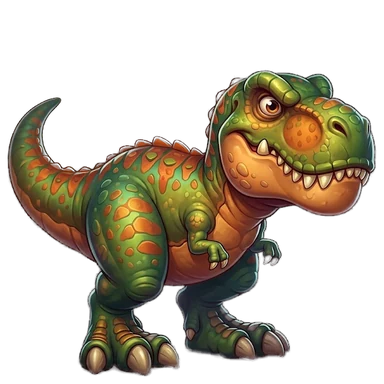
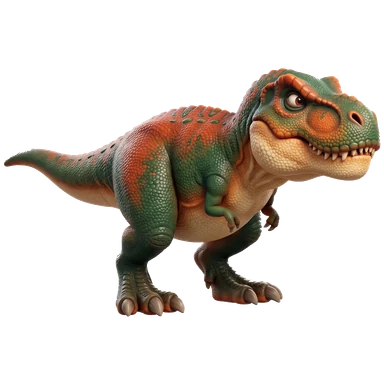
30 animales con imagen propia (sin fondo, centradas) + script procesar_imagenes.js

diff --git a/game.html b/game.html
@@ -293,7 +293,7 @@ img.em.im{display:block;width:88%;height:88%;object-fit:contain;filter:drop-shad
 <script>if(!window.mqtt)document.write('<script src="https://unpkg.com/mqtt@5.10.1/dist/mqtt.min.js"><\/script>')</script>
 <script>
 /* ---------- DATA ---------- */
-const VERSION='v23';
+const VERSION='v24';
 const GROUPS={
   c:{n:'Dino carnívoro',g1:'#ff7a5c',g2:'#c62f2f'},
   h:{n:'Dino gigante',g1:'#8be36a',g2:'#2f9a3a'},
@@ -427,7 +427,7 @@ const RAW=[
 ['p','Capibara gigante','🐹',30,4,[['Mordida de Dientes','F'],['Embestida','G'],['Chapuzón','V']]]
 ];
 const slug=n=>n.normalize('NFD').replace(/[\u0300-\u036f]/g,'').toLowerCase().replace(/[^a-z0-9]+/g,'-').replace(/^-|-$/g,'');
-const IMG=new Set(["tiranosaurio-rex"]); // slugs con imagen en img/<slug>.webp
+const IMG=new Set(["anquilosaurio", "carcharodontosaurio", "carnotauro", "elasmotherium", "elefante-africano", "entelodon", "espinosaurio", "giganotosaurio", "gliptodonte", "gorila", "hipopotamo", "homotherium", "jaguar", "leon-africano", "leon-americano", "leon-de-las-cavernas", "lobo-gigante", "mamut-columbiano", "megaraptor", "oso-cavernario", "oso-gigante-sudamericano", "oso-polar", "perezoso-gigante", "rinoceronte-negro", "smilodon", "thylacosmilus", "tigre-siberiano", "tiranosaurio-rex", "utahraptor", "velociraptor"]); // slugs con imagen en img/<slug>.webp
 const A=RAW.map(([g,n,e,h,s,atk])=>({g,n,e,h,s,atk:atk.map(([n,t])=>({n,t}))}));
 const SPD={"Tiranosaurio rex":["big","Mordida Rompehuesos","Bone-Crushing Bite","Tenía la mordida más fuerte de un animal terrestre conocido: se calcula en unas 6 toneladas.","It had the strongest bite of any known land animal: about 6 tons of force."],"Giganotosaurio":["big","Gigante de la Patagonia","Patagonian Giant","Vivió en la Patagonia argentina y era tan largo como un colectivo: unos 12 metros.","It lived in Argentine Patagonia and was as long as a bus: about 12 meters."],"Espinosaurio":["extra","Nado Veloz","Swift Swim","Es el primer dinosaurio que sabemos que nadaba: su cola funcionaba como un remo.","It is the first dinosaur we know could swim: its tail worked like a paddle."],"Carcharodontosaurio":["pierce","Corte de Tiburón","Shark Slash","Su nombre significa \"lagarto con dientes de tiburón\": sus dientes eran planos y con filo de sierra.","Its name means \"shark-toothed lizard\": its teeth were flat and serrated."],"Carnotauro":["extra","Sprint del Toro","Bull Sprint","Fue uno de los dinosaurios grandes más rápidos, tenía cuernos como un toro y se encontró en Chubut.","One of the fastest big dinosaurs, it had bull-like horns and was found in Chubut, Argentina."],"Velociraptor":["extra","Ataque Relámpago","Lightning Strike","Era del tamaño de un pavo y tenía plumas, ¡no como en las películas!","It was turkey-sized and had feathers, not like in the movies!"],"Utahraptor":["pierce","Garra Gigante","Giant Toe Claw","La garra curva de su pie medía más de 20 centímetros.","The curved claw on its foot was over 20 centimeters long."],"Megaraptor":["pierce","Garra Gancho","Hook Claw","Las garras de sus manos medían más de 30 cm. Fue descubierto en Neuquén.","Its hand claws were over 30 cm long. It was discovered in Neuquén, Argentina."],"Alosaurio":["drain","Cazador Jurásico","Jurassic Hunter","Vivió unos 80 millones de años antes que el T-rex: era el gran cazador del Jurásico.","It lived about 80 million years before T. rex: the top hunter of the Jurassic."],"Baryonyx":["drain","Pesca Rápida","Quick Catch","Se encontraron escamas de pescado en su estómago: ¡comía peces!","Fish scales were found in its stomach: it ate fish!"],"Mapusaurio":["extra","Caza en Grupo","Group Hunt","Se hallaron varios juntos en Neuquén: tal vez cazaban en grupo.","Several were found together in Neuquén: they may have hunted in groups."],"Argentinosaurio":["armor","Cuerpo Colosal","Colossal Body","Es uno de los animales más grandes que caminaron la Tierra: pesaba más que 10 elefantes.","One of the largest animals ever to walk the Earth: heavier than 10 elephants."],"Patagotitán":["big","Pisada Titánica","Titanic Stomp","Su réplica en un museo de Nueva York es tan grande que la cabeza asoma por la puerta de la sala.","Its cast at a New York museum is so big its head sticks out of the hall."],"Braquiosaurio":["big","Golpe desde Arriba","Strike from Above","Podía levantar la cabeza a unos 12 metros: como un edificio de 4 pisos.","It could raise its head about 12 meters high: like a 4-story building."],"Diplodocus":["extra","Látigo Supersónico","Sonic Whip","Algunos científicos creen que su cola podía restallar como un látigo.","Some scientists think its tail could crack like a whip."],"Triceratops":["pierce","Carga de Tres Cuernos","Three-Horn Charge","Sus cuernos de la frente podían medir 1 metro. Convivió con el T-rex.","Its brow horns could be 1 meter long. It lived alongside T. rex."],"Estegosaurio":["armor","Placas de Defensa","Defense Plates","Tenía un cerebro chiquito, del tamaño de una nuez, ¡y vivió millones de años!","Its brain was tiny, about walnut-sized, yet it thrived for millions of years!"],"Anquilosaurio":["armor","Armadura Total","Full Armor","Su cola terminaba en un mazo de hueso que podía romper huesos.","Its tail ended in a bony club strong enough to break bones."],"Smilodon":["pierce","Sable Mortal","Deadly Saber","Sus colmillos medían hasta 28 cm, y también vivió en Argentina.","Its fangs reached 28 cm, and it also lived in Argentina."],"Homotherium":["extra","Persecución Larga","Long Chase","Tenía patas largas y podía perseguir presas por largas distancias.","It had long legs and could chase prey over long distances."],"León de las cavernas":["big","Rugido de la Edad de Hielo","Ice Age Roar","Humanos lo pintaron en cuevas hace más de 30.000 años.","Humans painted it on cave walls more than 30,000 years ago."],"León americano":["extra","Salto Gigante","Giant Pounce","Era más grande que los leones de hoy y vivía en América del Norte.","It was bigger than today's lions and lived in North America."],"Thylacosmilus":["pierce","Sable Marsupial","Marsupial Saber","Parecía un tigre dientes de sable, pero era pariente de los marsupiales. Vivió en Argentina.","It looked like a saber-toothed cat but was related to marsupials. It lived in Argentina."],"Mamut columbiano":["big","Estampida de Hielo","Ice Stampede","Era más grande que el mamut lanudo y tenía colmillos de más de 3 metros.","It was bigger than the woolly mammoth, with tusks over 3 meters long."],"Perezoso gigante":["heal","Siesta Gigante","Giant Nap","El Megaterio era del tamaño de un elefante y vivió en la región pampeana.","Megatherium was elephant-sized and lived in the Argentine Pampas."],"Oso cavernario":["heal","Hibernar","Hibernate","Hibernaba en cuevas, donde se encontraron miles de sus huesos.","It hibernated in caves, where thousands of its bones have been found."],"Oso gigante sudamericano":["big","Zarpazo Récord","Record Swipe","El Arctotherium es uno de los osos más grandes que existieron: podía pesar más de 1.500 kg.","Arctotherium is one of the biggest bears ever: it may have weighed over 1,500 kg."],"Gliptodonte":["armor","Caparazón Tanque","Tank Shell","Su caparazón era tan grande que los primeros humanos pudieron usarlo de refugio.","Its shell was so big that early humans may have used it as a shelter."],"Elasmotherium":["pierce","Unicornio de Siberia","Siberian Unicorn","Le dicen \"unicornio siberiano\" por el enorme cuerno de su frente.","It is called the \"Siberian unicorn\" for the huge horn on its forehead."],"Lobo gigante":["extra","Manada","Pack Tactics","Vivió en América hasta hace unos 13.000 años y cazaba en manada.","It lived in the Americas until about 13,000 years ago and hunted in packs."],"Entelodón":["drain","Come de Todo","Eats Everything","Le dicen \"cerdo del infierno\", pero no era un cerdo: era más pariente de hipopótamos y ballenas.","Called the \"hell pig\", it wasn't a pig: it was closer to hippos and whales."],"Elefante africano":["big","Trompa Poderosa","Mighty Trunk","Su trompa tiene unos 40.000 músculos.","Its trunk has about 40,000 muscles."],"Rinoceronte negro":["extra","Carga a 55 km/h","55 km/h Charge","A pesar de su peso, puede correr a unos 55 km/h.","Despite its weight, it can run about 55 km/h."],"Hipopótamo":["big","Bostezo Gigante","Mega Yawn","Puede abrir la boca más de 1 metro.","It can open its mouth more than 1 meter wide."],"Oso polar":["heal","Grasa Polar","Blubber Boost","Su piel es negra y su pelo es transparente: por eso se ve blanco.","Its skin is black and its fur is see-through, which makes it look white."],"León africano":["extra","Rugido de 8 km","8 km Roar","Su rugido se escucha a 8 kilómetros de distancia.","Its roar can be heard 8 kilometers away."],"Tigre siberiano":["pierce","Rayas Únicas","Unique Stripes","Es el felino más grande del mundo y sus rayas son únicas, como una huella digital.","It is the world's biggest cat, and its stripes are unique, like fingerprints."],"Jaguar":["pierce","Mordida al Cráneo","Skull Bite","Es el felino más grande de América y vive en el norte de Argentina.","It is the largest cat in the Americas and lives in northern Argentina."],"Gorila":["big","Fuerza de Gorila","Gorilla Strength","Comparte casi el 98% de su ADN con los humanos.","It shares about 98% of its DNA with humans."],"Búfalo africano":["extra","Defensa de Manada","Herd Defense","Las manadas defienden a sus crías y hasta pueden espantar leones.","Herds defend their young and can even chase off lions."],"Bisonte americano":["armor","Pelaje de Invierno","Winter Coat","Es el mamífero terrestre más pesado de América del Norte.","It is the heaviest land mammal in North America."],"Hiena manchada":["drain","Tritura Huesos","Bone Crunch","Puede comer y digerir huesos enteros.","It can eat and digest whole bones."],"Titanoboa":["drain","Abrazo de 13 Metros","13-Meter Squeeze","Medía unos 13 metros: ¡más larga que un colectivo!","It was about 13 meters long: longer than a bus!"],"Anaconda verde":["drain","Abrazo del Río","River Squeeze","Es la serpiente más pesada del mundo y puede pasar semanas sin comer.","It is the world's heaviest snake and can go weeks without eating."],"Deinosuchus":["big","Mordida Cazadinos","Dino-Hunter Bite","Era un cocodrilo tan grande que cazaba dinosaurios.","It was a crocodile so big it hunted dinosaurs."],"Cocodrilo de agua salada":["big","Mordida Récord","Record Bite","Tiene la mordida más fuerte medida en un animal vivo.","It has the strongest bite ever measured in a living animal."],"Megalania":["drain","Veneno Antiguo","Ancient Venom","Fue el lagarto terrestre más grande conocido y vivía en Australia.","It was the largest known land lizard and lived in Australia."],"Dragón de Komodo":["drain","Veneno de Dragón","Dragon Venom","Tiene glándulas de veneno en la mandíbula.","It has venom glands in its jaw."],"Quetzalcoatlus":["extra","Vuelo Gigante","Giant Flight","Fue uno de los animales voladores más grandes: sus alas medían unos 10 metros.","One of the largest flying animals ever: its wings spanned about 10 meters."],"Águila de Haast":["pierce","Picada Mortal","Death Dive","Fue el águila más grande que existió y vivió en Nueva Zelanda.","It was the largest eagle that ever lived, from New Zealand."],"Argentavis":["extra","Planeo Térmico","Thermal Glide","Fue una de las aves voladoras más grandes, con alas de unos 6 metros. Vivió en Argentina.","One of the largest flying birds ever, with wings of about 6 meters. It lived in Argentina."],"Phorusrhacos":["pierce","Golpe de Pico","Beak Strike","Era un \"ave del terror\" que no volaba y vivió en la Patagonia.","It was a flightless \"terror bird\" from Patagonia."],"Torvosaurio":["big","Cazador Salvaje","Savage Hunter","Su nombre significa \"lagarto salvaje\": fue uno de los grandes cazadores del Jurásico.","Its name means \"savage lizard\": one of the biggest Jurassic hunters."],"Monolofosaurio":["extra","Cresta Llamativa","Crest Display","Tenía una sola cresta en la cabeza, quizás para lucirse.","It had a single crest on its head, maybe for showing off."],"Daspletosaurio":["big","Mordida Espantosa","Frightful Bite","Era primo del T-rex y su nombre significa \"lagarto espantoso\".","A cousin of T. rex; its name means \"frightful lizard\"."],"Albertosaurio":["extra","Caza Veloz","Fast Hunt","Se encontraron muchos juntos: quizás vivían en grupo.","Many were found together: they may have lived in groups."],"Acrocanthosaurio":["pierce","Cresta Espinosa","Spiny Ridge","Tenía una cresta de espinas de más de 30 cm en la espalda.","It had a ridge of spines over 30 cm tall along its back."],"Ceratosaurio":["pierce","Cuerno Cortante","Horn Slash","Tenía un cuerno en la nariz y dientes muy largos.","It had a horn on its nose and very long teeth."],"Suchomimus":["drain","Pesca de Cocodrilo","Croc Catch","Su nombre significa \"imita cocodrilo\" por su hocico largo.","Its name means \"crocodile mimic\" because of its long snout."],"Majungasaurio":["big","Mordida de Madagascar","Madagascar Bite","Vivió en Madagascar y tenía un cuernito en la cabeza.","It lived in Madagascar and had a small horn on its head."],"Rajasaurio":["extra","Corona Real","Royal Crown","Su nombre significa \"lagarto rey\" y vivió en la India.","Its name means \"king lizard\"; it lived in India."],"Terizinosaurio":["pierce","Guadañas","Scythes","Tenía algunas de las garras más largas conocidas: más de 50 cm. ¡Y comía plantas!","It had some of the longest claws known, over 50 cm. And it ate plants!"],"Apatosaurio":["big","Pisada Trueno","Thunder Step","Pesaba más o menos lo mismo que 4 elefantes.","It weighed about as much as 4 elephants."],"Euoplocefalus":["armor","Párpados Blindados","Armored Eyelids","Tenía placas de hueso hasta en los párpados.","It had bony armor even on its eyelids."],"Shunosaurio":["pierce","Maza con Púas","Spiked Club","Es uno de los pocos dinosaurios de cuello largo con un mazo en la cola.","One of the few long-necked dinosaurs with a club on its tail."],"Sauroposeidón":["armor","Altura Récord","Record Height","Podía levantar la cabeza a unos 17 metros: uno de los dinosaurios más altos.","It could raise its head about 17 meters: one of the tallest dinosaurs."],"Alamosaurio":["big","Gigante del Sur","Southern Giant","Fue uno de los últimos dinosaurios gigantes de América del Norte.","It was one of the last giant dinosaurs in North America."],"Saltasaurio":["armor","Armadura de Salta","Salta Armor","Se encontró en Salta y fue el primer dinosaurio de cuello largo con armadura que se descubrió.","Found in Salta, Argentina, it was the first armored long-necked dinosaur discovered."],"Titanoceratops":["pierce","Volante Gigante","Giant Frill","Tenía uno de los cráneos más grandes de un animal terrestre: más de 2 metros.","It had one of the largest skulls of any land animal: over 2 meters."],"Centrosaurio":["extra","Manada Enorme","Huge Herd","Se encontraron lugares con cientos de ellos juntos.","Sites with hundreds of them together have been found."],"Megantereon":["pierce","Colmillo Oculto","Hidden Fang","Fue uno de los primeros dientes de sable y vivió en África, Asia y Europa.","One of the earliest saber-tooths; it lived in Africa, Asia and Europe."],"Barbourofelis":["pierce","Sables Récord","Record Sabers","Tenía colmillos enormes en comparación con su cabeza.","Its fangs were huge compared to its head."],"Dinofelis":["extra","Acecho","Stalk","Su nombre significa \"gato terrible\" y vivió en África hace millones de años.","Its name means \"terrible cat\"; it lived in Africa millions of years ago."],"Simbakubwa":["big","Gran León","Big Lion Bite","Su nombre en suajili significa \"gran león\", aunque no era un felino.","Its name means \"big lion\" in Swahili, though it wasn't a cat."],"Andrewsarchus":["big","Mandíbula Récord","Record Jaw","Solo se conoce su cráneo, que mide unos 83 cm.","Only its skull is known, and it is about 83 cm long."],"León marsupial":["pierce","Garra del Pulgar","Thumb Claw","Tenía una de las mordidas más fuertes para su tamaño entre los mamíferos.","It had one of the strongest bites for its size of any mammal."],"Chalicoterio":["heal","Ramoneo","Browse","Parecía un caballo con garras y caminaba apoyando los nudillos, como los gorilas.","It looked like a horse with claws and walked on its knuckles like a gorilla."],"Macrauquenia":["extra","Zigzag","Zigzag Dodge","Vivió en Argentina y Charles Darwin encontró sus fósiles.","It lived in Argentina, and Charles Darwin found its fossils."],"Gomfoterio":["big","Pala de Colmillos","Tusk Shovel","Tenía cuatro colmillos: dos arriba y dos abajo.","It had four tusks: two on top and two on the bottom."],"Ciervo gigante":["pierce","Astas de 3,6 m","3.6 m Antlers","Sus astas medían hasta 3,6 metros de punta a punta.","Its antlers spanned up to 3.6 meters."],"Rinoceronte gigante":["armor","Gigante sin Cuerno","Hornless Giant","Fue uno de los mamíferos terrestres más grandes de la historia, y no tenía cuerno.","One of the largest land mammals ever, and it had no horn."],"Megalonyx":["heal","Descanso Gigante","Giant Rest","Thomas Jefferson, presidente de Estados Unidos, estudió sus fósiles.","U.S. President Thomas Jefferson studied its fossils."],"Rinoceronte blanco":["big","Embestida Doble","Double Charge","Es el rinoceronte más grande que existe hoy.","It is the largest rhino alive today."],"Oso pardo":["heal","Atracón de Miel","Honey Feast","Puede oler comida a kilómetros de distancia.","It can smell food from kilometers away."],"Leopardo":["extra","Sigilo","Stealth","Puede subir a un árbol presas más pesadas que él.","It can drag prey heavier than itself up a tree."],"Jirafa":["big","Patada de Jirafa","Giraffe Kick","Su corazón pesa unos 11 kg y su lengua mide hasta 50 cm.","Its heart weighs about 11 kg and its tongue is up to 50 cm long."],"Equus gigante":["extra","Galope Veloz","Swift Gallop","Los caballos aparecieron en América, desaparecieron de aquí y volvieron con los españoles.","Horses evolved in the Americas, vanished there, and came back with the Spanish."],"Sarcosuchus":["big","SuperCroc","SuperCroc Bite","Le dicen \"SuperCroc\": medía unos 9 metros.","Nicknamed \"SuperCroc\", it was about 9 meters long."],"Teratornis":["extra","Planeo","Soaring","Era un ave gigante que planeaba sobre América hace miles de años.","A giant bird that soared over the Americas thousands of years ago."],"Dinornis":["extra","Carrera de Moa","Moa Dash","Las moas hembra podían medir más de 3 metros con el cuello estirado.","Female moas could stand over 3 meters tall with the neck stretched up."],"Ave elefante":["armor","Huevo Gigante","Giant Egg","Ponía el huevo más grande conocido: equivale a unos 150 huevos de gallina.","It laid the largest known egg: about as much as 150 chicken eggs."],"Titanis":["pierce","Pico del Terror","Terror Beak","Fue el único \"ave del terror\" que llegó a América del Norte.","It was the only \"terror bird\" to reach North America."],"Dromornis":["big","Pico Trueno","Thunder Beak","Le dicen \"ave del trueno\" y vivió en Australia.","Nicknamed the \"thunder bird\", it lived in Australia."],"Madtsoia":["drain","Apretón","Squeeze","Era una serpiente gigante que también vivió en la Patagonia.","A giant snake that also lived in Patagonia."],"Doedicuro":["armor","Coraza","Armor Shell","Pariente del gliptodonte, tenía la cola con púas como una maza. Vivió en Argentina.","A glyptodont relative with a spiked mace-like tail. It lived in Argentina."],"Arsinoiterio":["pierce","Doble Cuerno","Twin Horns","Tenía dos enormes cuernos uno al lado del otro y vivió en Egipto.","It had two huge horns side by side and lived in Egypt."],"Uintaterio":["big","Seis Protuberancias","Six Knobs","Tenía seis protuberancias en la cabeza y colmillos como sables.","It had six knobs on its head and saber-like tusks."],"Arctodus":["extra","Patas Largas","Long Legs","Tenía patas largas: parado en dos patas medía más de 3 metros.","It had long legs: standing up it was over 3 meters tall."],"Sivatherium":["big","Cuernos de Alce","Moose Horns","Era pariente de la jirafa, pero con el cuello corto y cuernos anchos.","A giraffe relative, but with a short neck and wide horns."],"Astrapoterio":["heal","Baño en el Río","River Soak","Era un mamífero raro de Sudamérica, con trompa corta y colmillos.","A strange South American mammal with a short trunk and tusks."],"Dinocrocuta":["drain","Rompehuesos","Bone Crusher","Tenía una de las mordidas más fuertes de los mamíferos: rompía huesos.","It had one of the strongest mammal bites: it crushed bones."],"Megalictis":["extra","Furia de Comadreja","Weasel Fury","Era un pariente gigante de las comadrejas.","It was a giant relative of weasels."],"Sivapithecus":["heal","Bocado de Fruta","Fruit Snack","Es un pariente antiguo de los orangutanes.","It is an ancient relative of orangutans."],"Harpagolestes":["drain","Carroñero","Scavenge","Tenía dientes gruesos para romper huesos.","It had thick teeth for cracking bones."],"Anthracoterio":["heal","Baño de Barro","Mud Bath","Es un pariente antiguo de los hipopótamos.","It is an ancient relative of hippos."],"Bisonte gigante":["armor","Cuernos de 2 m","2 m Horns","Sus cuernos medían más de 2 metros de punta a punta.","Its horns spanned more than 2 meters."],"Rinoceronte lanudo":["armor","Lana Polar","Woolly Coat","Tenía pelo largo para soportar el frío de la Edad de Hielo.","It had long hair to survive the Ice Age cold."],"Megacerops":["pierce","Cuerno Horqueta","Forked Horn","Su nombre significa \"gran cara con cuernos\".","Its name means \"great horned face\"."],"Gigantopithecus":["big","Fuerza de Gigante","Giant Strength","Fue el simio más grande que existió: podía medir 3 metros.","It was the largest ape ever: it may have stood 3 meters tall."],"Kolponomos":["drain","Come Almejas","Clam Crusher","Vivía en la costa y rompía mariscos con sus dientes.","It lived on the coast and cracked shellfish with its teeth."],"Uintacyon":["extra","Agilidad","Agility","Es un pariente antiguo de los carnívoros de hoy, como perros y gatos.","An ancient relative of today's carnivores, like dogs and cats."],"Mesonix":["extra","Trote de Lobo","Wolf Trot","Parecía un lobo, pero tenía pezuñas en las patas.","It looked like a wolf but had hooves on its feet."],"Titanosaurio":["armor","Piel Blindada","Armored Skin","En Auca Mahuevo, Neuquén, se encontraron miles de huevos de titanosaurio.","Thousands of titanosaur eggs were found at Auca Mahuevo, Neuquén."],"Capibara gigante":["heal","Baño en el Río","River Bath","El Josephoartigasia pesaba como un toro y vivió en Uruguay.","Josephoartigasia weighed about as much as a bull and lived in Uruguay."]};
 A.forEach(x=>{const d=SPD[x.n];x.sp={t:d[0],n:d[1],nen:d[2],f:d[3],fen:d[4]}});

diff --git a/app/procesar_imagenes.js b/app/procesar_imagenes.js
@@ -1,0 +1,68 @@
+// Procesa imágenes de animales con fondo liso (blanco/gris claro, como las de Gemini):
+// saca el fondo (si no viene transparente), recorta, centra y guarda <salida>/<slug>.webp de 384x384.
+//
+// Uso: node app/procesar_imagenes.js <carpeta_salida> <imagen> <slug> [<imagen> <slug> ...]
+// Requiere: npm i sharp
+const sharp = require('sharp');
+const path = require('path');
+
+const SIZE = 384, WORK = 1024, FLIP = false; // las de Gemini ya miran a la derecha, que es como las usa el juego
+const [outDir, ...pairs] = process.argv.slice(2);
+if (!outDir || pairs.length % 2) { console.error('uso: node procesar_imagenes.js <salida> <img> <slug> ...'); process.exit(1); }
+
+async function proc(src, slug) {
+  const { data, info } = await sharp(src).resize(WORK, WORK, { fit: 'inside' }).ensureAlpha().raw().toBuffer({ resolveWithObject: true });
+  const W = info.width, H = info.height, px = (x, y) => (y * W + x) * 4;
+
+  // si ya viene con transparencia (borde transparente), se respeta tal cual
+  let transpBorder = 0, borderN = 0;
+  for (let x = 0; x < W; x++) for (const y of [0, H - 1]) { borderN++; if (data[px(x, y) + 3] < 20) transpBorder++; }
+  for (let y = 0; y < H; y++) for (const x of [0, W - 1]) { borderN++; if (data[px(x, y) + 3] < 20) transpBorder++; }
+  const alreadyTransparent = transpBorder / borderN > 0.9;
+
+  // color de fondo: promedio del borde
+  let r = 0, g = 0, b = 0, n = 0;
+  for (let x = 0; x < W; x++) for (const y of [0, H - 1]) { const i = px(x, y); r += data[i]; g += data[i + 1]; b += data[i + 2]; n++; }
+  for (let y = 0; y < H; y++) for (const x of [0, W - 1]) { const i = px(x, y); r += data[i]; g += data[i + 1]; b += data[i + 2]; n++; }
+  const bg = [r / n, g / n, b / n];
+  const dist = i => Math.hypot(data[i] - bg[0], data[i + 1] - bg[1], data[i + 2] - bg[2]);
+  // sombras grises del piso: claras y casi sin color
+  const isShadow = i => { const R = data[i], G = data[i + 1], B = data[i + 2]; const mx = Math.max(R, G, B), mn = Math.min(R, G, B); return mx > 150 && mx - mn < 14; };
+  const HARD = 38, SOFT = 70;
+
+  if (!alreadyTransparent) {
+  // relleno desde los bordes: todo lo conectado que se parece al fondo es fondo
+  const bgMask = new Uint8Array(W * H), stack = [];
+  const push = (x, y) => { if (x < 0 || y < 0 || x >= W || y >= H) return; const k = y * W + x; if (bgMask[k]) return; const i = k * 4; if (dist(i) < HARD || isShadow(i)) { bgMask[k] = 1; stack.push(k); } };
+  for (let x = 0; x < W; x++) { push(x, 0); push(x, H - 1); }
+  for (let y = 0; y < H; y++) { push(0, y); push(W - 1, y); }
+  while (stack.length) { const k = stack.pop(), x = k % W, y = (k / W) | 0; push(x + 1, y); push(x - 1, y); push(x, y + 1); push(x, y - 1); }
+  // huecos encerrados (entre las patas, bajo la cola): manchas casi idénticas al fondo que no tocan el borde
+  for (let k = 0; k < W * H; k++) if (!bgMask[k] && dist(k * 4) < 22) bgMask[k] = 1;
+
+  // alfa: fondo transparente; borde suave en los píxeles del animal que tocan el fondo
+  for (let k = 0; k < W * H; k++) {
+    const i = k * 4;
+    if (bgMask[k]) { data[i + 3] = 0; continue; }
+    const x = k % W, y = (k / W) | 0;
+    const nearBg = (x > 0 && bgMask[k - 1]) || (x < W - 1 && bgMask[k + 1]) || (y > 0 && bgMask[k - W]) || (y < H - 1 && bgMask[k + W]);
+    if (nearBg) { const d = dist(i); if (d < SOFT) data[i + 3] = Math.round(255 * (d - HARD) / (SOFT - HARD)); }
+  }
+
+  }
+
+  let img = sharp(data, { raw: { width: W, height: H, channels: 4 } });
+  // recorte al animal
+  const trimmed = await img.png().toBuffer().then(buf => sharp(buf).trim({ threshold: 1 }).toBuffer({ resolveWithObject: true }));
+  let t = sharp(trimmed.data); if (FLIP) t = t.flop();
+  const tw = trimmed.info.width, th = trimmed.info.height, side = Math.round(Math.max(tw, th) * 1.02);
+  const subject = await t.png().toBuffer();
+  const dest = path.join(outDir, slug + '.webp');
+  await sharp({ create: { width: side, height: side, channels: 4, background: { r: 0, g: 0, b: 0, alpha: 0 } } })
+    .composite([{ input: subject, left: Math.round((side - tw) / 2), top: Math.round((side - th) / 2) }])
+    .png().toBuffer()
+    .then(buf => sharp(buf).resize(SIZE, SIZE).webp({ quality: 88, effort: 6, alphaQuality: 100 }).toFile(dest));
+  console.log('ok', slug, '→', dest);
+}
+
+(async () => { for (let i = 0; i < pairs.length; i += 2) await proc(pairs[i], pairs[i + 1]); })().catch(e => { console.error(e); process.exit(1); });
